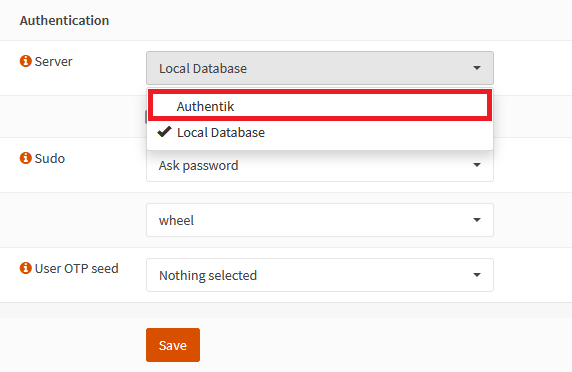
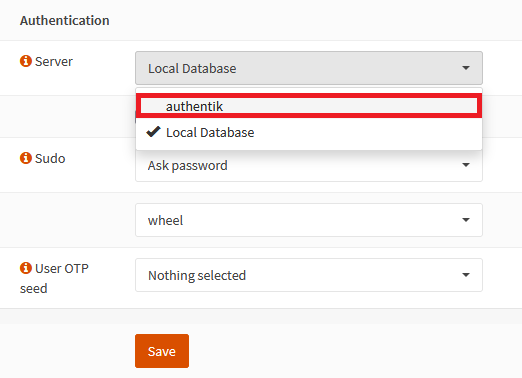
website/docs: authentik starts lowercase

diff --git a/website/docs/integrations/services/opnsense/index.md b/website/docs/integrations/services/opnsense/index.md
@@ -11,20 +11,20 @@ OPNsense is a free and Open-Source FreeBSD-based firewall and routing software. 
 :::
 
 :::note
-This is based on Authentik 2021.10.3 and OPNsense 21.7.4-amd64 installed using https://docs.opnsense.org/manual/install.html. Instructions may differ between versions.
+This is based on authentik 2021.10.3 and OPNsense 21.7.4-amd64 installed using https://docs.opnsense.org/manual/install.html. Instructions may differ between versions.
 :::
 
 ## Preparation
 
 The following placeholders will be used:
 
-- `authentik.company` is the FQDN of Authentik.
-- `opnsense-user` is the name of the Authentik Service account we'll create.
+- `authentik.company` is the FQDN of authentik.
+- `opnsense-user` is the name of the authentik Service account we'll create.
 - `DC=ldap,DC=goauthentik,DC=io` is the Base DN of the LDAP Provider (default)
 
 ### Step 1
 
-In Authentik, create a service account (under _Identity & Cryptography/Users_) for OPNsense to use as the LDAP Binder.
+In authentik, create a service account (under _Identity & Cryptography/Users_) for OPNsense to use as the LDAP Binder.
 
 In this example, we'll use `opnsense-user` as the Service account's username
 
@@ -34,7 +34,7 @@ Take note of the password for this user as you'll need to give it to OPNsense in
 
 ### Step 2
 
-In Authentik, create an _LDAP Provider_ (under _Resources/Providers_) with these settings:
+In authentik, create an _LDAP Provider_ (under _Resources/Providers_) with these settings:
 
 :::note
 Only settings that have been modified from default have been listed.
@@ -46,7 +46,7 @@ Only settings that have been modified from default have been listed.
 
 ### Step 3
 
-In Authentik, create an application (under _Resources/Applications_) which uses this provider. Optionally apply access restrictions to the application using policy bindings.
+In authentik, create an application (under _Resources/Applications_) which uses this provider. Optionally apply access restrictions to the application using policy bindings.
 
 :::note
 Only settings that have been modified from default have been listed.
@@ -58,7 +58,7 @@ Only settings that have been modified from default have been listed.
 
 ### Step 4
 
-In Authentik, create an outpost (under _Outposts/Outposts_) of type `LDAP` that uses the LDAP Application you created in _Step 2_.
+In authentik, create an outpost (under _Outposts/Outposts_) of type `LDAP` that uses the LDAP Application you created in _Step 2_.
 
 :::note
 Only settings that have been modified from default have been listed.
@@ -68,11 +68,11 @@ Only settings that have been modified from default have been listed.
 - Type: LDAP
 ### Step 5
 
-Add your Authentik LDAP server to OPNsense by going to your OPNsense Web UI and clicking the `+` under _System/Access/Servers_.
+Add your authentik LDAP server to OPNsense by going to your OPNsense Web UI and clicking the `+` under _System/Access/Servers_.
 
 Change the following fields
 
-- Descriptive name: Authentik
+- Descriptive name: authentik
 - Hostname or IP address: authentik.company
 - Transport: SSL - Encrypted
 - Bind credentials
@@ -85,7 +85,7 @@ Change the following fields
 ![](./opnsense1.png)
 ### Step 6
 
-In OPNsense, go to _System/Settings/Administration_ and under _Authentication_ at the bottom of that page, add Authentik to the Server list
+In OPNsense, go to _System/Settings/Administration_ and under _Authentication_ at the bottom of that page, add `authentik` to the Server list
 
 ![](./opnsense2.png)
 
